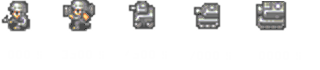
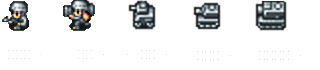
j'ai rajouté les autres couleurs

diff --git a/src/client/render/Tileset.h b/src/client/render/Tileset.h
@@ -63,13 +63,21 @@ Tileset<T>::Tileset (std::string filename) : filename(filename) {
             Tile qgBleu(0,62,16,31);
             Tile qgVert(0,93,16,31);
             Tile qgJaune(0,124,16,31);
+	    Tile qgViolet(0,155,16,31);
+            Tile qgBrun(0,186,16,31);
+            Tile qgBleuF(0,217,16,31);
+            Tile qgRougeF(0,248,16,31);
             //Usine
             Tile usineRouge(32,31,16,31);
             Tile usineBleu(32,62,16,31);
             Tile usineVert(32,93,16,31);
             Tile usineJaune(32,124,16,31);
+	    Tile usineViolet(32,155,16,31);
+            Tile usineBrun(32,186,16,31);
+            Tile usineBleuF(32,217,16,31);
+            Tile usineRougeF(32,248,16,31);
 
-            tiles = {qgRouge,qgBleu,qgVert,qgJaune,usineRouge,usineBleu,usineVert,usineJaune};
+            tiles = {qgRouge,qgBleu,qgVert,qgJaune,qgViolet,qgBrun,qgBleuF,qgRougeF,usineRouge,usineBleu,usineVert,usineJaune,usineViolet,usineBrun,usineBleuF,usineRougeF};
     }
 
     if (filename=="res/units.png") {
@@ -78,52 +86,92 @@ Tileset<T>::Tileset (std::string filename) : filename(filename) {
             Tile infantryBleu(0,16,16,16);
             Tile infantryVert(0,32,16,16);
             Tile infantryJaune(0,48,16,16);
+            Tile infantryViolet(0,64,16,16);
+            Tile infantryBrun(0,80,16,16);
+            Tile infantryBleuF(0,96,16,16);
+            Tile infantryRougeF(0,112,16,16);
 	    //Infantry Flag
             Tile infantryRougeFlag(16,0,16,16);
             Tile infantryBleuFlag(16,16,16,16);
             Tile infantryVertFlag(16,32,16,16);
             Tile infantryJauneFlag(16,48,16,16);
+            Tile infantryVioletFlag(16,64,16,16);
+            Tile infantryBrunFlag(16,80,16,16);
+            Tile infantryBleuFFlag(16,96,16,16);
+            Tile infantryRougeFFlag(16,112,16,16);
             //Mech
             Tile mechRouge(32,0,16,16);
             Tile mechBleu(32,16,16,16);
             Tile mechVert(32,32,16,16);
             Tile mechJaune(32,48,16,16);
+            Tile mechViolet(32,64,16,16);
+            Tile mechBrun(32,80,16,16);
+            Tile mechBleuF(32,96,16,16);
+            Tile mechRougeF(32,112,16,16);
 	    //Mech Flag
             Tile mechRougeFlag(48,0,16,16);
             Tile mechBleuFlag(48,16,16,16);
             Tile mechVertFlag(48,32,16,16);
             Tile mechJauneFlag(48,48,16,16);
+            Tile mechVioletFlag(48,64,16,16);
+            Tile mechBrunFlag(48,80,16,16);
+            Tile mechBleuFFlag(48,96,16,16);
+            Tile mechRougeFFlag(48,112,16,16);
 	    //Recon
             Tile reconRouge(64,0,16,16);
             Tile reconBleu(64,16,16,16);
             Tile reconVert(64,32,16,16);
             Tile reconJaune(64,48,16,16);
+            Tile reconViolet(64,64,16,16);
+            Tile reconBrun(64,80,16,16);
+            Tile reconBleuF(64,96,16,16);
+            Tile reconRougeF(64,112,16,16);
 	    //Recon Flag
             Tile reconRougeFlag(80,0,16,16);
             Tile reconBleuFlag(80,16,16,16);
             Tile reconVertFlag(80,32,16,16);
             Tile reconJauneFlag(80,48,16,16);
+            Tile reconVioletFlag(80,64,16,16);
+            Tile reconBrunFlag(80,80,16,16);
+            Tile reconBleuFFlag(80,96,16,16);
+            Tile reconRougeFFlag(80,112,16,16);
             //Tank
             Tile tankRouge(96,0,16,16);
             Tile tankBleu(96,16,16,16);
             Tile tankVert(96,32,16,16);
             Tile tankJaune(96,48,16,16);
+            Tile tankViolet(96,64,16,16);
+            Tile tankBrun(96,80,16,16);
+            Tile tankBleuF(96,96,16,16);
+            Tile tankRougeF(96,112,16,16);
 	    //Tank Flag
             Tile tankRougeFlag(112,0,16,16);
             Tile tankBleuFlag(112,16,16,16);
             Tile tankVertFlag(112,32,16,16);
             Tile tankJauneFlag(112,48,16,16);
+            Tile tankVioletFlag(112,64,16,16);
+            Tile tankBrunFlag(112,80,16,16);
+            Tile tankBleuFFlag(112,96,16,16);
+            Tile tankRougeFFlag(112,112,16,16);
             //HTank
             Tile hTankRouge(128,0,16,16);
             Tile hTankBleu(128,16,16,16);
             Tile hTankVert(128,32,16,16);
             Tile hTankJaune(128,48,16,16);
+            Tile hTankViolet(128,64,16,16);
+            Tile hTankBrun(128,80,16,16);
+            Tile hTankBleuF(128,96,16,16);
+            Tile hTankRougeF(128,112,16,16);
 	    //HTank Flag
             Tile hTankRougeFlag(144,0,16,16);
             Tile hTankBleuFlag(144,16,16,16);
             Tile hTankVertFlag(144,32,16,16);
             Tile hTankJauneFlag(144,48,16,16);
-            tiles = {infantryRouge,infantryBleu,infantryVert,infantryJaune,mechRouge,mechBleu,mechVert,mechJaune,reconRouge,reconBleu,reconVert,reconJaune,tankRouge,tankBleu,tankVert,tankJaune,hTankRouge,hTankBleu,hTankVert,hTankJaune,infantryRougeFlag,infantryBleuFlag,infantryVertFlag,infantryJauneFlag,mechRougeFlag,mechBleuFlag,mechVertFlag,mechJauneFlag,reconRougeFlag,reconBleuFlag,reconVertFlag,reconJauneFlag,tankRougeFlag,tankBleuFlag,tankVertFlag,tankJauneFlag,hTankRougeFlag,hTankBleuFlag,hTankVertFlag,hTankJauneFlag};
+            Tile hTankVioletFlag(144,64,16,16);
+            Tile hTankBrunFlag(144,80,16,16);
+            Tile hTankBleuFFlag(144,96,16,16);
+            Tile hTankRougeFFlag(144,112,16,16);
+            tiles = {infantryRouge,infantryBleu,infantryVert,infantryJaune,infantryViolet,infantryBrun,infantryBleuF,infantryRougeF,mechRouge,mechBleu,mechVert,mechJaune,mechViolet,mechBrun,mechBleuF,mechRougeF,reconRouge,reconBleu,reconVert,reconJaune,reconViolet,reconBrun,reconBleuF,reconRougeF,tankRouge,tankBleu,tankVert,tankJaune,tankViolet,tankBrun,tankBleuF,tankRougeF,hTankRouge,hTankBleu,hTankVert,hTankJaune,hTankViolet,hTankBrun,hTankBleuF,hTankRougeF,infantryRougeFlag,infantryBleuFlag,infantryVertFlag,infantryJauneFlag,infantryVioletFlag,infantryBrunFlag,infantryBleuFFlag,infantryRougeFFlag,mechRougeFlag,mechBleuFlag,mechVertFlag,mechJauneFlag,mechVioletFlag,mechBrunFlag,mechBleuFFlag,mechRougeFFlag,reconRougeFlag,reconBleuFlag,reconVertFlag,reconJauneFlag,reconVioletFlag,reconBrunFlag,reconBleuFFlag,reconRougeFFlag,tankRougeFlag,tankBleuFlag,tankVertFlag,tankJauneFlag,tankVioletFlag,tankBrunFlag,tankBleuFFlag,tankRougeFFlag,hTankRougeFlag,hTankBleuFlag,hTankVertFlag,hTankJauneFlag,hTankVioletFlag,hTankBrunFlag,hTankBleuFFlag,hTankRougeFFlag};
     }
     if (filename=="res/misc.png") {
             //carre
@@ -140,8 +188,12 @@ Tileset<T>::Tileset (std::string filename) : filename(filename) {
 	    Tile flagBleu(16,0,16,16);
             Tile flagVert(32,0,16,16);
 	    Tile flagJaune(48,0,16,16);
+            Tile flagViolet(60,0,16,16);
+	    Tile flagBrun(76,0,16,16);
+            Tile flagBleuF(92,0,16,16);
+	    Tile flagRougeF(108,0,16,16);
 
-            tiles = {flagRouge,flagBleu,flagVert,flagJaune};
+            tiles = {flagRouge,flagBleu,flagVert,flagJaune,flagViolet,flagBrun,flagBleuF,flagRougeF};
     }
 }
 

diff --git a/src/client/main.cpp b/src/client/main.cpp
@@ -372,17 +372,18 @@ void AIPlay(AI* ai) {
 
 void AITest() {
     // Creation d'objets Joueur
-    unique_ptr<Joueur> joueur1(new Joueur(0,true));
-    unique_ptr<Joueur> joueur2(new Joueur(1,true));
+    unique_ptr<Joueur> joueur1(new Joueur(4,true));
+    unique_ptr<Joueur> joueur2(new Joueur(5,true));
     std::vector<Joueur*> listeJoueurs {joueur1.get(), joueur2.get()};
 
+
     // Creation d'objets Batiment
-    unique_ptr<Batiment> batiment (new Usine(Position(6, 4), 0));
-    unique_ptr<Batiment> batiment2 (new Usine(Position(15, 15), 1));
-    unique_ptr<Batiment> batiment3 (new Usine(Position(4, 4), 0));
-    unique_ptr<Batiment> batiment4 (new Usine(Position(13, 15), 1));
-    unique_ptr<Batiment> batiment5 (new QG(Position(5, 5), 0));
-    unique_ptr<Batiment> batiment6 (new QG(Position(14, 14), 1));
+    unique_ptr<Batiment> batiment (new Usine(Position(6, 4), 5));
+    unique_ptr<Batiment> batiment2 (new Usine(Position(15, 15), 4));
+    unique_ptr<Batiment> batiment3 (new Usine(Position(4, 4), 5));
+    unique_ptr<Batiment> batiment4 (new Usine(Position(13, 15), 4));
+    unique_ptr<Batiment> batiment5 (new QG(Position(5, 5), 5));
+    unique_ptr<Batiment> batiment6 (new QG(Position(14, 14), 4));
 
     vector<Batiment*> batiments;
     batiments.push_back(batiment.get());
@@ -392,9 +393,11 @@ void AITest() {
     batiments.push_back(batiment5.get());
     batiments.push_back(batiment6.get());
 
+
+
     // Creation d'objets Flag
-    unique_ptr<Flag> flag1 (new Flag(Position(5,5),0));
-    unique_ptr<Flag> flag2 (new Flag(Position(14,14),1));
+    unique_ptr<Flag> flag1 (new Flag(Position(5,3),5));
+    unique_ptr<Flag> flag2 (new Flag(Position(14,16),4));
     std::vector<Flag*> flags {flag1.get(), flag2.get()};
 
     // création d'un objet TerrainTab
@@ -410,8 +413,8 @@ void AITest() {
     unique_ptr<Engine> engine(new Engine(jeu.get()));
 
     // Creation d'une IA
-    unique_ptr<HeuristicAI> crazyAI(new HeuristicAI(0,engine.get(),jeu.get()));
-    unique_ptr<HeuristicAI> geniusAI(new HeuristicAI(1,engine.get(),jeu.get()));
+    unique_ptr<HeuristicAI> crazyAI(new HeuristicAI(5,engine.get(),jeu.get()));
+    unique_ptr<HeuristicAI> geniusAI(new HeuristicAI(4,engine.get(),jeu.get()));
 
     // Creation d'objets Tileset
     render::Tileset<Unite> uniteTileset("res/units.png");

diff --git a/src/shared/state/Batiment.cpp b/src/shared/state/Batiment.cpp
@@ -15,7 +15,7 @@ namespace state {
 		return this->color;
 	}
 	int Batiment::getTileId(){
-		return (4*this->getId_b()+this->getColor());
+		return (8*this->getId_b()+this->getColor());
 	}
 	Batiment::~Batiment(){
 	}

diff --git a/src/shared/state/Usine.cpp b/src/shared/state/Usine.cpp
@@ -39,7 +39,7 @@ namespace state {
 		return this->color;
 	}
 	int Usine::getTileId(){
-		return (4*this->getId_b()+this->getColor());
+		return (8*this->getId_b()+this->getColor());
 	}
 	Usine::~Usine(){
 	}

diff --git a/src/shared/state/Infantry.cpp b/src/shared/state/Infantry.cpp
@@ -53,7 +53,7 @@ namespace state {
 	int Infantry::getTileId(){
 		int mod=0;
 		if (this->has_flag) {
-			mod=20;
+			mod=40;
 		}
 		return (4*this->getId()+this->getColor()+mod);
 	}
